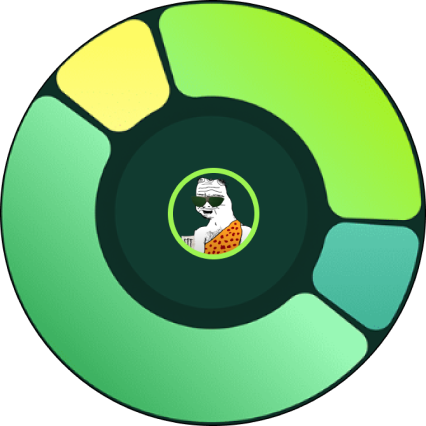
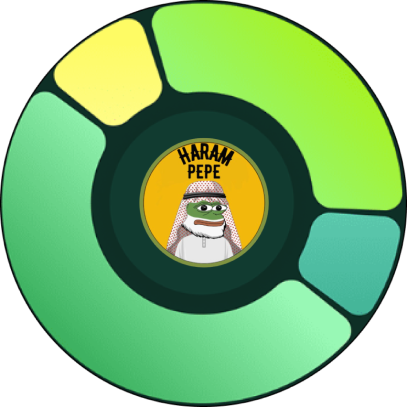
up

Changed region(s): [[0.3243, 0.3243, 0.6781, 0.6781], [0.0, 0.3243, 0.0295, 0.3538]]

diff --git a/src/Components/Mics.jsx b/src/Components/Mics.jsx
@@ -23,8 +23,8 @@ const Mics = () => {
           className="absolute -bottom-40 right-0 w-[10rem] lg:w-auto"
         />
       </div>
-      <div className="container z-20 grid lg:grid-cols-2 justify-between items-center gap-14">
-        <article className="flex flex-col gap-5 font-Kavoon">
+      <div className="container  grid lg:grid-cols-2 justify-between items-center gap-14">
+        <article className="flex z-20 flex-col gap-5 font-Kavoon">
           <h1 className="font-Kavoon text-5xl uppercase md:text-7xl">
             Tekonomics
           </h1>
@@ -38,18 +38,6 @@ const Mics = () => {
             <article className="flex gap-5 items-center capitalize">
               <span className="w-10 h-[13px] relative bg-gradient-to-r from-green-400 to-green-300 rounded-lg" />{" "}
               <h3 className="text-xl">0% sell tax</h3>
-            </article>
-            <article className="flex gap-5 items-center capitalize">
-              <span className="w-10 h-[13px] relative bg-gradient-to-r from-yellow-200 to-yellow-200 rounded-lg" />{" "}
-              <h3 className="text-xl">100% max transacation </h3>
-            </article>
-            <article className="flex gap-5 items-center capitalize">
-              <span className="w-10 h-[13px] relative bg-gradient-to-r from-sky-400 to-teal-950 rounded-lg" />{" "}
-              <h3 className="text-xl">100% max wallet </h3>
-            </article>
-            <article className="flex gap-5 items-center capitalize">
-              <span className="w-10 h-[13px] relative bg-gradient-to-r from-red-900 to-yellow-500 rounded-lg" />{" "}
-              <h3 className="text-xl">lp burn </h3>
             </article>
           </div>
         </article>

diff --git a/src/Components/Hero.jsx b/src/Components/Hero.jsx
@@ -29,7 +29,7 @@ const Hero = () => {
         <a
           href=""
           target="_blank"
-          className="w-[355px] h-[54px] uppercase px-8 py-4 bg-gradient-to-l from-green-300 to-lime-300 rounded shadow  border border-lime-400 justify-center items-center gap-[10px] text-black text-[16px] leading-snug font-anakeimDisplaySsiRegular  hover:text-white"
+          className="w-[355px] h-[54px] uppercase px-8 py-4 bg-gradient-to-l from-yellow-500 to-rose-400 rounded shadow  border border-lime-400 justify-center items-center gap-[10px] text-white text-[16px] leading-snug font-Kavoon  hover:text-white"
         >
           buy haram pepe
         </a>
